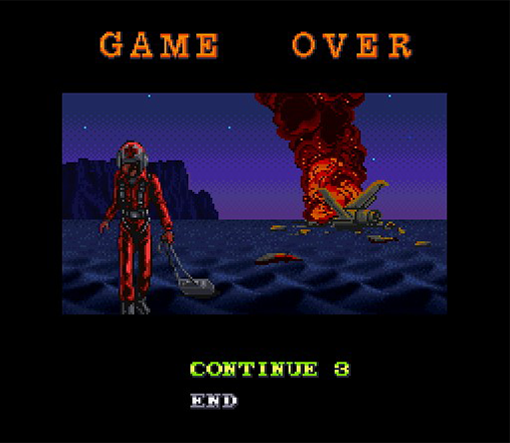
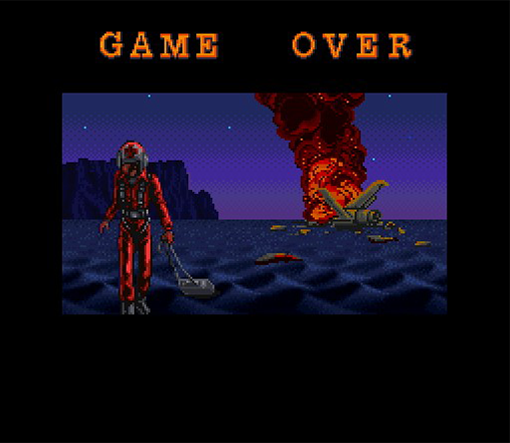
Win condition and Win Scene Added

Changed region(s): [[0.3529, 0.7923, 0.7059, 0.851], [0.3529, 0.8804, 0.4706, 0.9391]]

diff --git a/Project_7_Handout/Source/Application.cpp b/Project_7_Handout/Source/Application.cpp
@@ -7,6 +7,7 @@
 #include "ModuleAudio.h"
 #include "ModulePlayer.h"
 #include "SceneIntro.h"
+#include "SceneWin.h"
 #include"ModuleScene.h"
 #include"SceneGameover.h"
 #include "ModuleParticles.h"
@@ -29,15 +30,16 @@ Application::Application()
 	modules[4] = sceneIntro = new SceneIntro(true);
 	modules[5] = scene = new ModuleScene(false);
 	modules[6] = sceneGameover = new SceneGameover(false);
+	modules[7] = sceneWin = new SceneWin(false);
 
-	modules[7] = player = new ModulePlayer(false);	//Player starts disabled
-	modules[8] = particles = new ModuleParticles(true);
-	modules[9] = enemies = new ModuleEnemies(false);	//Enemies start disabled
+	modules[8] = player = new ModulePlayer(false);	//Player starts disabled
+	modules[9] = particles = new ModuleParticles(true);
+	modules[10] = enemies = new ModuleEnemies(false);	//Enemies start disabled
 
-	modules[10] = collisions = new ModuleCollisions(true);
-	modules[11] = fade = new ModuleFadeToBlack(true);
-	modules[12] = fonts = new ModuleFonts(true);
-	modules[13] = render = new ModuleRender(true);
+	modules[11] = collisions = new ModuleCollisions(true);
+	modules[12] = fade = new ModuleFadeToBlack(true);
+	modules[13] = fonts = new ModuleFonts(true);
+	modules[14] = render = new ModuleRender(true);
 }
 
 Application::~Application()

diff --git a/Project_7_Handout/Source/SceneWin.cpp b/Project_7_Handout/Source/SceneWin.cpp
@@ -1,0 +1,66 @@
+#include "SceneWin.h"
+
+#include "Application.h"
+#include "ModuleTextures.h"
+#include "ModuleRender.h"
+#include "ModuleAudio.h"
+#include "ModuleInput.h"
+#include "ModuleFadeToBlack.h"
+
+SceneWin::SceneWin(bool startEnabled) : Module(startEnabled)
+{
+
+}
+
+SceneWin::~SceneWin()
+{
+
+}
+
+// Load assets
+bool SceneWin::Start()
+{
+	LOG("Loading background assets");
+
+
+
+	bool ret = true;
+
+	bgTexture = App->textures->Load("Assets/16_Stage_Clear.png");
+
+	App->render->camera.x = 0;
+	App->render->camera.y = 0;
+
+	return ret;
+}
+
+update_status SceneWin::Update()
+{
+
+	if (App->input->keys[SDL_SCANCODE_SPACE] == KEY_STATE::KEY_DOWN)
+	{
+		App->fade->FadeToBlack(this, (Module*)App->sceneIntro, 90);
+	}
+
+	return update_status::UPDATE_CONTINUE;
+}
+
+// Update: draw background
+update_status SceneWin::PostUpdate()
+{
+	// Draw everything --------------------------------------
+	App->render->Blit(bgTexture, 0, 0, NULL);
+	return update_status::UPDATE_CONTINUE;
+}
+
+bool SceneWin::CleanUp()
+{
+	//Enable (and properly disable) the player module
+
+
+
+
+
+
+	return true;
+}

diff --git a/Project_7_Handout/Source/SceneWin.h b/Project_7_Handout/Source/SceneWin.h
@@ -1,0 +1,37 @@
+#ifndef __SCENE_WIN_H__
+#define __SCENE_WIN_H__
+
+#include "Module.h"
+#include "Animation.h"
+#include"Path.h"
+
+struct SDL_Texture;
+
+class SceneWin : public Module
+{
+public:
+	//Constructor
+	SceneWin(bool startEnabled);
+
+	//Destructor
+	~SceneWin();
+
+	// Called when the module is activated
+	// Loads the necessary textures for the map background
+	bool Start() override;
+
+	// Called at the middle of the application loop
+	// Updates the scene's background animations
+	update_status Update() override;
+	bool CleanUp();
+
+	// Called at the end of the application loop.
+	// Performs the render call of all the parts of the scene's background
+	update_status PostUpdate() override;
+
+public:
+	// The scene sprite sheet loaded into an SDL_Texture
+	SDL_Texture* bgTexture = nullptr;
+};
+
+#endif

diff --git a/Project_7_Handout/Source/Application.h b/Project_7_Handout/Source/Application.h
@@ -3,7 +3,7 @@
 
 #include "Globals.h"
 
-#define NUM_MODULES 14
+#define NUM_MODULES 15
 
 class Module;
 class ModuleWindow;
@@ -12,6 +12,7 @@ class ModuleTextures;
 class ModuleAudio;
 class ModulePlayer;
 class SceneIntro;
+class SceneWin;
 class ModuleScene;
 class SceneGameover;
 class ModuleParticles;
@@ -54,6 +55,7 @@ public:
 	ModulePlayer* player = nullptr;
 
 	SceneIntro* sceneIntro = nullptr;
+	SceneWin* sceneWin = nullptr;
 	ModuleScene* scene = nullptr;
 	SceneGameover* sceneGameover = nullptr;
 

diff --git a/Project_7_Handout/Source/ModulePlayer.cpp b/Project_7_Handout/Source/ModulePlayer.cpp
@@ -174,6 +174,10 @@ update_status ModulePlayer::Update()
 			//return update_status::UPDATE_STOP;
 		}
 	}
+	else if (position.x ==2050 )
+	{
+		App->fade->FadeToBlack((Module*)App->scene, (Module*)App->sceneWin, 60);
+	}
 
 	return update_status::UPDATE_CONTINUE;
 }
